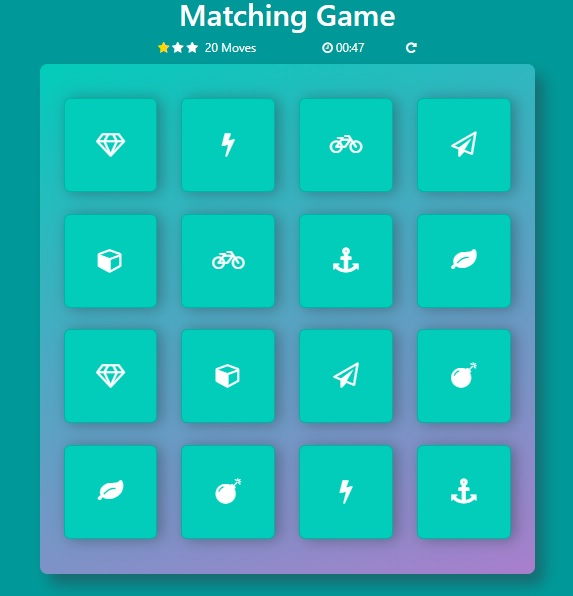
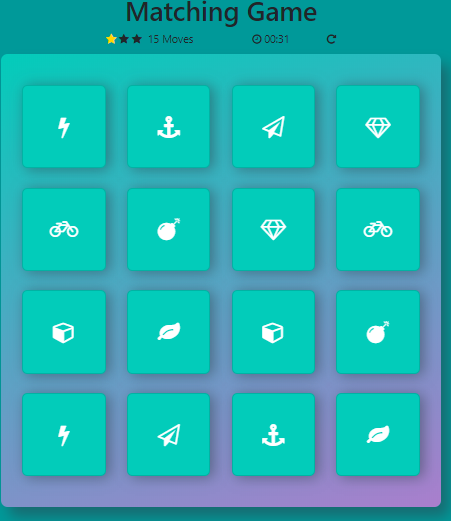
works section adjustments

diff --git a/main.css b/main.css
@@ -335,10 +335,12 @@ body {
 
 .works__title {
   color: #333333;
+  margin-bottom: 0;
 }
 
 .works__subtitle {
   color: #333333;
+  margin-top: 0;
 }
 
 .works__image-container {
@@ -352,7 +354,7 @@ body {
   .works__image-container {
     flex-direction: row;
     /*flex-wrap: wrap;*/
-    justify-content: space-around;
+    justify-content: space-evenly;
     height: auto;
   }
 }
@@ -368,17 +370,22 @@ body {
 }
 @media (min-width: 48rem) {
   .works__photo {
-    width: 30%;
-    margin: 0 0 1rem 0;
-    max-height: 13rem;
-    max-width: 14rem;
+    width: auto;
+    margin: 0 0 2rem 0;
+    height: 8rem;
+    align-self: flex-end;
+    max-height: 15rem;
   }
 }
 
-.awards__photo--no-shadow {
-  box-shadow: none;
+.works__photo--adjustment {
+  height: 8.5rem;
 }
 
+/*
+.awards__photo--no-shadow {
+  box-shadow: none;
+}*/
 .testimonial {
   grid-area: testimonial;
   background: #5e582f;

diff --git a/main.scss b/main.scss
@@ -299,12 +299,12 @@ body {
 
 .works__title {
   color: map_get($colors, darker-grey);
-
+  margin-bottom: 0;
 }
 
 .works__subtitle {
   color: map_get($colors, darker-grey);
-
+  margin-top: 0;
 }
 
 .works__image-container {
@@ -316,7 +316,7 @@ body {
   @include large {
     flex-direction: row;
     /*flex-wrap: wrap;*/
-    justify-content: space-around;
+    justify-content: space-evenly;
     height: auto;
   }
 }
@@ -329,19 +329,24 @@ body {
   &:hover,
   &:active {
     transform: scale(1.05);
-
   }
+
   @include large {
-    width: 30%;
-    margin: 0 0 1rem 0;
-    max-height: 13rem;
-    max-width: 14rem
+    width: auto;
+    margin: 0 0 2rem 0;
+    height: 8rem;
+    align-self: flex-end;
+    max-height: 15rem;
   }
 }
 
+.works__photo--adjustment {
+  height: 8.5rem;
+}
+/*
 .awards__photo--no-shadow {
   box-shadow: none;
-}
+}*/
 
 .testimonial {
   grid-area: testimonial;

diff --git a/index.html b/index.html
@@ -47,7 +47,7 @@
         </div>
         <div class="about__text-cell">
             <h1 class="about__title">
-                Maria de Fatima
+                lorem ipsum
             </h1>
 
         </div>
@@ -260,7 +260,7 @@
         <h1 class="works__title">Works</h1>
         <p class="works__subtitle">(click in the project for more information)</p>
         <div class="works__image-container">
-            <img class="works__photo awards__photo--no-shadow" src="images/memorygame.png" alt="jogo de memória">
+            <img class="works__photo awards__photo--no-shadow works__photo--adjustment" src="images/memorygame2.png" alt="jogo de memória">
             <img class="works__photo" src="images/uhost.png" alt="site de host">
             <img class="works__photo" src="images/carregando&login.png" alt="jogo de memória">
         </div>
